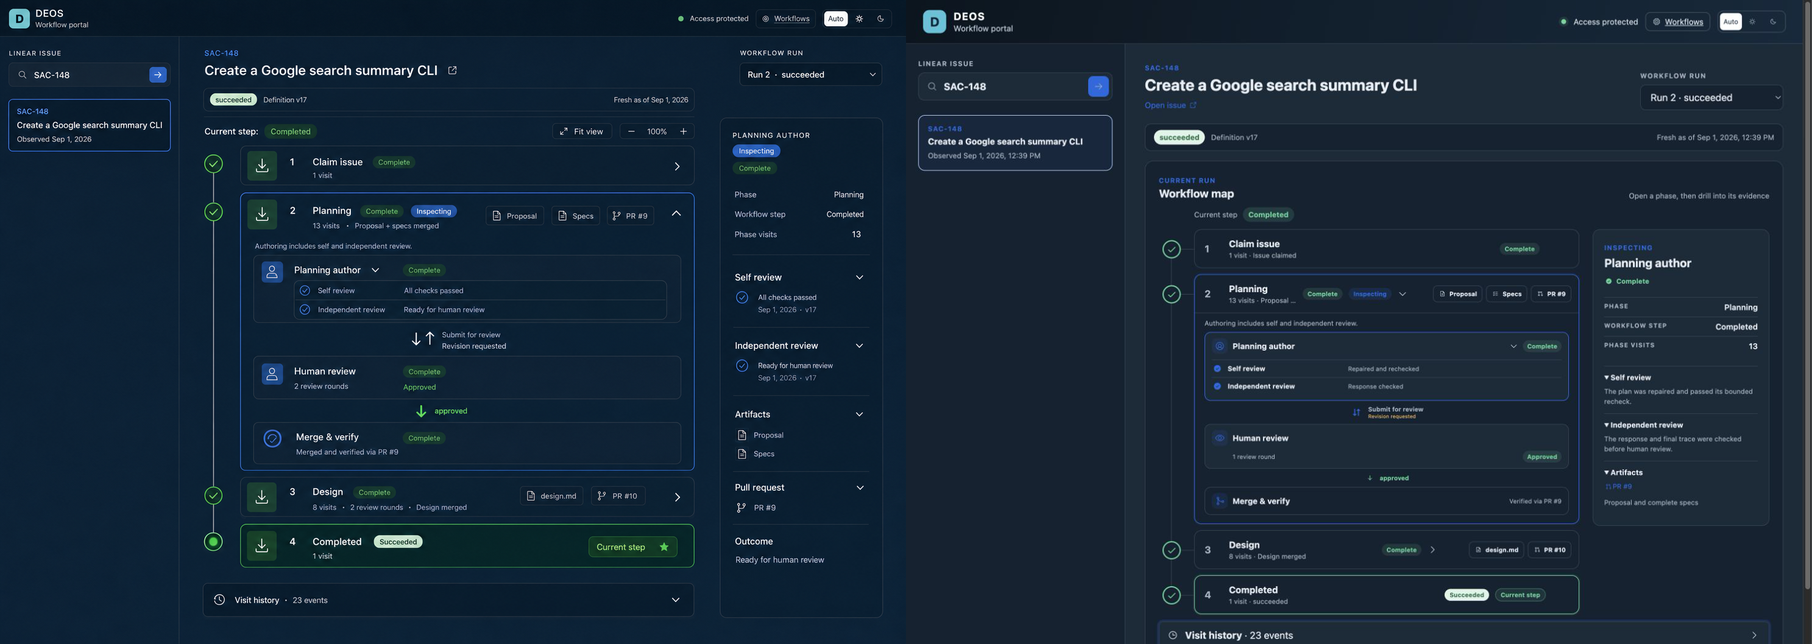
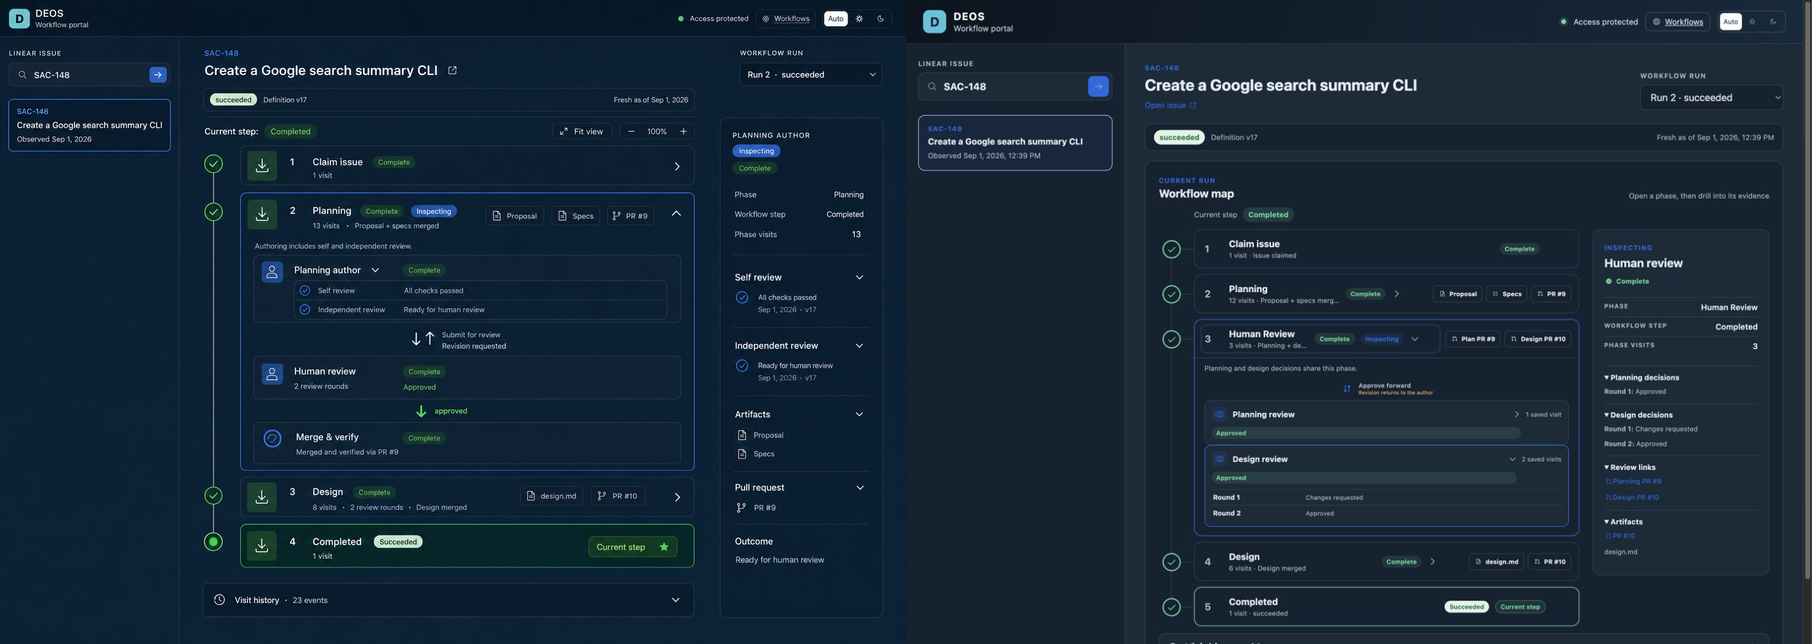
fix: preserve review phase replay evidence

Changed region(s): [[0.6187, 0.4367, 0.959, 1.0], [0.8662, 0.4055, 0.928, 0.4367], [0.928, 0.4679, 0.959, 0.4991]]

diff --git a/portal/src/main.tsx b/portal/src/main.tsx
@@ -255,15 +255,18 @@ function TraceabilityWorkflowMap({
   }, [projection.run.id]);
 
   const openPhase = (phaseId: WorkflowPhaseId, visits: Visit[]) => {
-    const expandable = phaseId === "planning" || phaseId === "design";
+    const expandable = phaseId === "planning" || phaseId === "approval" || phaseId === "design";
     const next = expandable && expandedPhase !== phaseId ? phaseId : null;
-    setExpandedPhase(next);
-    setExpandedSubstep(next === "planning" ? "planning_author" : null);
     const latest = visits.at(-1);
+    setExpandedPhase(next);
+    setExpandedSubstep(next === "planning" ? "planning_author"
+      : next === "approval" ? (latest?.gate?.gate_kind === "design" ? "design_review" : "planning_review")
+        : next === "design" ? "design_author" : null);
     if (latest !== undefined) onSelectVisit(latest.sequence);
   };
 
   const planningVisits = phases.find((phase) => phase.id === "planning")?.visits as Visit[] | undefined ?? [];
+  const approvalVisits = phases.find((phase) => phase.id === "approval")?.visits as Visit[] | undefined ?? [];
   const designVisits = phases.find((phase) => phase.id === "design")?.visits as Visit[] | undefined ?? [];
   const selfReviewVisits = planningVisits.filter((visit) => [
     "self_discovery", "planning_self_repair", "self_recheck_before_publish", "self_recheck_after_publish",
@@ -274,13 +277,16 @@ function TraceabilityWorkflowMap({
   const planningAuthorVisit = latestVisitFor(planningVisits, (visit) => [
     "planning_author", "planning_self_repair", "planning_independent_response", "final_trace",
   ].includes(visit.nodeId));
-  const planningReviewVisit = latestVisitFor(planningVisits, (visit) => visit.nodeId === "planning_review");
+  const planningReviewVisit = latestVisitFor(approvalVisits, (visit) => visit.nodeId === "planning_review");
   const planningMergeVisit = latestVisitFor(planningVisits, (visit) => ["verify_planning_merge", "merge_planning_pr"].includes(visit.nodeId));
   const designAuthorVisit = latestVisitFor(designVisits, (visit) => ["design_revision_author", "design_author"].includes(visit.nodeId));
-  const designReviewVisit = latestVisitFor(designVisits, (visit) => visit.nodeId === "design_review");
+  const designReviewVisit = latestVisitFor(approvalVisits, (visit) => visit.nodeId === "design_review");
   const designMergeVisit = latestVisitFor(designVisits, (visit) => visit.nodeId === "merge_design_pr");
   const planningGates = projection.gateVisits.filter((gate) => gate.gateKind === "plan");
   const designGates = projection.gateVisits.filter((gate) => gate.gateKind === "design");
+  const approvalLinks = [...new Map(
+    approvalVisits.flatMap((visit) => visit.links).map((link) => [link.url, link]),
+  ).values()];
   const planningProduct = projection.workProducts.planning;
   const designProduct = projection.workProducts.design;
 
@@ -289,10 +295,20 @@ function TraceabilityWorkflowMap({
     if (visit !== null) onSelectVisit(visit.sequence);
   };
 
+  const inspectVisit = (visit: Visit) => {
+    onSelectVisit(visit.sequence);
+    const phaseId = phaseForVisit(visit);
+    setExpandedPhase(phaseId);
+    setExpandedSubstep(phaseId === "approval"
+      ? (visit.gate?.gate_kind === "design" ? "design_review" : "planning_review")
+      : null);
+  };
+
   const phaseOutcome = (phaseId: WorkflowPhaseId): string => {
     if (phaseId === "claim") return "Issue claimed";
     if (phaseId === "planning") return planningProduct?.verified ? "Proposal + specs merged" : "Proposal + specs";
-    if (phaseId === "design") return designProduct?.status === "Merged" ? "Design merged" : "Design review";
+    if (phaseId === "approval") return "Planning + design decisions";
+    if (phaseId === "design") return designProduct?.status === "Merged" ? "Design merged" : "Design work";
     if (phaseId === "complete") return human(projection.run.status);
     return "Workflow stopped";
   };
@@ -312,13 +328,7 @@ function TraceabilityWorkflowMap({
         <span><CheckCircle weight="fill" /><strong>Independent review</strong><small>{independentVisits.length > 1 ? "Response checked" : "Ready for human review"}</small></span>
       </span>}
     </button>
-    <div className="shared-loop" aria-label="Submit for review or return for revision"><ArrowsDownUp weight="bold" /><span><strong>Submit for review</strong><small>Revision requested</small></span></div>
-    <button type="button" className={`phase-substep compact ${expandedSubstep === "planning_review" ? "selected" : ""}`} onClick={() => selectSubstep("planning_review", planningReviewVisit)}>
-      <span className="substep-heading"><span className="substep-icon"><Eye /></span><strong>Human review</strong></span>
-      <span className="substep-meta">{planningGates.length || 1} review round{planningGates.length === 1 ? "" : "s"}</span>
-      <span className="substep-status">{gateOutcomeLabel(planningGates.at(-1)?.decision ?? null)}</span>
-    </button>
-    <div className="approved-edge"><ArrowRight weight="bold" /><span>approved</span></div>
+    <div className="approved-edge"><ArrowRight weight="bold" /><span>after Human Review</span></div>
     <button type="button" className={`phase-substep terminal ${expandedSubstep === "planning_merge" ? "selected" : ""}`} onClick={() => selectSubstep("planning_merge", planningMergeVisit)}>
       <span className="substep-heading"><span className="substep-icon"><GitMerge /></span><strong>Merge &amp; verify</strong></span>
       <span className="substep-meta">{planningProduct?.verified ? `Verified via PR #${planningProduct.number}` : "Waiting for checked merge"}</span>
@@ -331,16 +341,27 @@ function TraceabilityWorkflowMap({
       <span className="substep-heading"><span className="substep-icon"><UserCircle /></span><strong>Design author</strong></span>
       <span className="substep-status">Complete</span>
     </button>
-    <div className="shared-loop" aria-label="Submit for review or return for revision"><ArrowsDownUp weight="bold" /><span><strong>Submit for review</strong><small>Revision requested</small></span></div>
-    <button type="button" className={`phase-substep ${expandedSubstep === "design_review" ? "selected" : ""}`} aria-expanded={expandedSubstep === "design_review"} onClick={() => selectSubstep("design_review", designReviewVisit)}>
-      <span className="substep-heading"><span className="substep-icon"><Eye /></span><strong>Human review</strong>{expandedSubstep === "design_review" ? <CaretDown /> : <CaretRight />}</span>
-      <span className="substep-meta">{designGates.length} review rounds</span>
-      {expandedSubstep === "design_review" && <span className="author-review-details gate-rounds">{designGates.map((gate) => <span key={gate.visitSequence}><strong>Round {gate.round}</strong><small>{gateOutcomeLabel(gate.decision)}</small></span>)}</span>}
-    </button>
-    <div className="approved-edge"><ArrowRight weight="bold" /><span>approved</span></div>
+    <div className="approved-edge"><ArrowRight weight="bold" /><span>after Human Review</span></div>
     <button type="button" className={`phase-substep terminal ${expandedSubstep === "design_merge" ? "selected" : ""}`} onClick={() => selectSubstep("design_merge", designMergeVisit)}>
       <span className="substep-heading"><span className="substep-icon"><GitMerge /></span><strong>Merge &amp; verify</strong></span>
       <span className="substep-meta">{designProduct?.status === "Merged" ? `Merged via PR #${designProduct.number}` : "Waiting for merge"}</span>
+    </button>
+  </div>;
+
+  const renderApproval = () => <div className="phase-drill" aria-label="Human Review details">
+    <p className="phase-note">Planning and design decisions share this phase.</p>
+    <div className="shared-loop" aria-label="Approve forward or return to the author"><ArrowsDownUp weight="bold" /><span><strong>Approve forward</strong><small>Revision returns to the author</small></span></div>
+    <button type="button" className={`phase-substep ${expandedSubstep === "planning_review" ? "selected" : ""} ${planningGates.some((gate) => gate.active) ? "active" : ""}`} aria-expanded={expandedSubstep === "planning_review"} onClick={() => selectSubstep("planning_review", planningReviewVisit)}>
+      <span className="substep-heading"><span className="substep-icon"><Eye /></span><strong>Planning review</strong>{expandedSubstep === "planning_review" ? <CaretDown /> : <CaretRight />}</span>
+      <span className="substep-meta">{planningGates.length} saved visit{planningGates.length === 1 ? "" : "s"}</span>
+      <span className="substep-status">{gateOutcomeLabel(planningGates.at(-1)?.decision ?? null)}</span>
+      {expandedSubstep === "planning_review" && <span className="author-review-details gate-rounds">{planningGates.map((gate) => <span key={gate.visitSequence}><strong>Round {gate.round}</strong><small>{gateOutcomeLabel(gate.decision)}</small></span>)}</span>}
+    </button>
+    <button type="button" className={`phase-substep ${expandedSubstep === "design_review" ? "selected" : ""} ${designGates.some((gate) => gate.active) ? "active" : ""}`} aria-expanded={expandedSubstep === "design_review"} onClick={() => selectSubstep("design_review", designReviewVisit)}>
+      <span className="substep-heading"><span className="substep-icon"><Eye /></span><strong>Design review</strong>{expandedSubstep === "design_review" ? <CaretDown /> : <CaretRight />}</span>
+      <span className="substep-meta">{designGates.length} saved visit{designGates.length === 1 ? "" : "s"}</span>
+      <span className="substep-status">{gateOutcomeLabel(designGates.at(-1)?.decision ?? null)}</span>
+      {expandedSubstep === "design_review" && <span className="author-review-details gate-rounds">{designGates.map((gate) => <span key={gate.visitSequence}><strong>Round {gate.round}</strong><small>{gateOutcomeLabel(gate.decision)}</small></span>)}</span>}
     </button>
   </div>;
 
@@ -357,7 +378,9 @@ function TraceabilityWorkflowMap({
           : expandedSubstep === "design_review" ? "Human review"
             : expandedSubstep === "design_merge" ? "Merge & verify"
               : inspectedPhase?.label ?? "Workflow";
-  const inspectorProduct = inspectedPhase?.id === "planning" ? planningProduct : inspectedPhase?.id === "design" ? designProduct : null;
+  const inspectorProduct = expandedSubstep === "planning_review" ? planningProduct
+    : expandedSubstep === "design_review" ? designProduct
+      : inspectedPhase?.id === "planning" ? planningProduct : inspectedPhase?.id === "design" ? designProduct : null;
   const inspectorAttempts = detail?.attempts.filter((attempt) => attempt.transcriptAvailable) ?? [];
 
   return <section className="workflow-panel phase-workflow-panel" aria-labelledby="workflow-title">
@@ -383,15 +406,20 @@ function TraceabilityWorkflowMap({
                 <span className={`phase-status ${successfulTerminal ? "succeeded" : ""}`}>{status}</span>
                 {inspecting && <span className="inspecting-pill">Inspecting</span>}
                 {current && <span className="current-pill">Current step</span>}
-                {(phase.id === "planning" || phase.id === "design") && (expanded ? <CaretDown /> : <CaretRight />)}
+                {(phase.id === "planning" || phase.id === "approval" || phase.id === "design") && (expanded ? <CaretDown /> : <CaretRight />)}
               </button>
               {product && <div className="phase-artifacts">
                 <a href={product.url} target="_blank" rel="noreferrer"><FileText />{phase.id === "planning" ? "Proposal" : "design.md"}</a>
                 {phase.id === "planning" && <a href={product.url} target="_blank" rel="noreferrer"><ListChecks />Specs</a>}
                 <a href={product.url} target="_blank" rel="noreferrer"><GitPullRequest />PR #{product.number}</a>
               </div>}
+              {phase.id === "approval" && <div className="phase-artifacts">
+                {planningProduct && <a href={planningProduct.url} target="_blank" rel="noreferrer"><GitPullRequest />Plan PR #{planningProduct.number}</a>}
+                {designProduct && <a href={designProduct.url} target="_blank" rel="noreferrer"><GitPullRequest />Design PR #{designProduct.number}</a>}
+              </div>}
             </div>
             {expanded && phase.id === "planning" && renderPlanning()}
+            {expanded && phase.id === "approval" && renderApproval()}
             {expanded && phase.id === "design" && renderDesign()}
           </article>;
         })}
@@ -411,14 +439,19 @@ function TraceabilityWorkflowMap({
           <details open><summary>Self review</summary><p>{selfReviewVisits.length > 1 ? "The plan was repaired and passed its bounded recheck." : "All checks passed."}</p></details>
           <details open><summary>Independent review</summary><p>{independentVisits.length > 1 ? "The response and final trace were checked before human review." : "Ready for human review."}</p></details>
         </>}
+        {inspectedPhase?.id === "approval" && <>
+          <details open><summary>Planning decisions</summary>{planningGates.map((gate) => <p key={gate.visitSequence}><strong>Round {gate.round}:</strong> {gateOutcomeLabel(gate.decision)}</p>)}</details>
+          <details open><summary>Design decisions</summary>{designGates.map((gate) => <p key={gate.visitSequence}><strong>Round {gate.round}:</strong> {gateOutcomeLabel(gate.decision)}</p>)}</details>
+          {approvalLinks.length > 0 && <details open><summary>Review links</summary>{approvalLinks.map((link) => <p key={link.url} className={detail?.links.some((selected) => selected.url === link.url) ? "selected-evidence" : ""}><a href={link.url} target="_blank" rel="noreferrer"><GitPullRequest /> {link.label}</a></p>)}</details>}
+        </>}
         {inspectedPhase?.id === "design" && <details open><summary>Review rounds</summary>{designGates.map((gate) => <p key={gate.visitSequence}><strong>Round {gate.round}:</strong> {gateOutcomeLabel(gate.decision)}</p>)}</details>}
-        {inspectorProduct && <details open><summary>Artifacts</summary><p><a href={inspectorProduct.url} target="_blank" rel="noreferrer"><GitPullRequest /> PR #{inspectorProduct.number}</a></p><p>{inspectedPhase?.id === "planning" ? "Proposal and complete specs" : "design.md"}</p></details>}
+        {inspectorProduct && <details open><summary>Artifacts</summary><p><a href={inspectorProduct.url} target="_blank" rel="noreferrer"><GitPullRequest /> PR #{inspectorProduct.number}</a></p><p>{inspectorProduct === planningProduct ? "Proposal and complete specs" : "design.md"}</p></details>}
         {inspectorAttempts.length > 0 && <details><summary>Transcript</summary>{inspectorAttempts.map((attempt) => <button className="inspector-action" type="button" key={attempt.id} onClick={() => onOpenTranscript(attempt.id)}>View transcript</button>)}</details>}
       </aside>
     </div>
     <div className="phase-history">
       <button type="button" aria-expanded={historyOpen} onClick={() => setHistoryOpen((open) => !open)}><Clock /><span><strong>Visit history</strong> · {projection.history.length} events</span>{historyOpen ? <CaretDown /> : <CaretRight />}</button>
-      {historyOpen && <ol>{[...projection.history].reverse().map((visit) => <li key={visit.sequence}><button type="button" className={selectedVisit === visit.sequence ? "selected" : ""} onClick={() => { onSelectVisit(visit.sequence); setExpandedPhase(phaseForVisit(visit)); }}><span>{visit.sequence}</span><strong>{human(visit.label)}</strong><small>{formatTime(visit.enteredAt)}</small></button></li>)}</ol>}
+      {historyOpen && <ol>{[...projection.history].reverse().map((visit) => <li key={visit.sequence}><button type="button" className={selectedVisit === visit.sequence ? "selected" : ""} onClick={() => inspectVisit(visit)}><span>{visit.sequence}</span><strong>{human(visit.label)}</strong><small>{formatTime(visit.enteredAt)}</small></button></li>)}</ol>}
     </div>
   </section>;
 }

diff --git a/src/workflow-services.ts b/src/workflow-services.ts
@@ -61,6 +61,8 @@ import {
   buildDesignCandidate,
   persistDesignCandidateEvidence,
   DesignCandidateRejectedError,
+  isStoredDesignCandidateReplay,
+  type StoredDesignCandidateIdentity,
 } from "./design-candidate.ts";
 
 const durationMs = (value: string): number => {
@@ -249,14 +251,22 @@ export class CloudflareWorkflowServices implements WorkflowNodeServices {
           content,
           reviewReplies,
         }) => {
-          const latest = await env.DB.prepare(
-            "SELECT COALESCE(MAX(round), 0) AS round FROM design_candidates WHERE run_id = ?",
-          ).bind(run.run_id).first<{ round: number }>();
-          const round = (latest?.round ?? 0) + 1;
+          const candidateId = `design:${attempt.attempt_id}`;
+          const existing = await env.DB.prepare(
+            `SELECT candidate_id, run_id, round, source_attempt_id, base_commit, change_id,
+                    design_digest, candidate_digest, state, created_at, accepted_at
+             FROM design_candidates WHERE candidate_id = ?`,
+          ).bind(candidateId).first<StoredDesignCandidateIdentity>();
+          const latest = existing === null
+            ? await env.DB.prepare(
+              "SELECT COALESCE(MAX(round), 0) AS round FROM design_candidates WHERE run_id = ?",
+            ).bind(run.run_id).first<{ round: number }>()
+            : null;
+          const round = existing?.round ?? (latest?.round ?? 0) + 1;
           let built;
           try {
             built = await buildDesignCandidate({
-              candidateId: `design:${attempt.attempt_id}`,
+              candidateId,
               runId: run.run_id,
               round,
               sourceAttemptId: attempt.attempt_id,
@@ -266,12 +276,16 @@ export class CloudflareWorkflowServices implements WorkflowNodeServices {
               content,
               reviewReplies,
               strictOpenSpecCheck: async () => {},
-              checkedAt: new Date().toISOString(),
+              checkedAt: existing?.accepted_at ?? existing?.created_at ?? new Date().toISOString(),
             });
           } catch (error) {
             throw new DesignCandidateRejectedError(
               error instanceof Error ? error.message : "trusted design candidate was rejected",
             );
+          }
+          if (existing !== null) {
+            if (isStoredDesignCandidateReplay(existing, built.candidate)) return;
+            throw new DesignCandidateRejectedError("design candidate attempt identity mismatch");
           }
           const duplicate = await env.DB.prepare(
             `SELECT candidate_id FROM design_candidates

diff --git a/portal/src/workflow-phases.ts b/portal/src/workflow-phases.ts
@@ -1,4 +1,4 @@
-export type WorkflowPhaseId = "claim" | "planning" | "design" | "complete" | "stopped";
+export type WorkflowPhaseId = "claim" | "planning" | "approval" | "design" | "complete" | "stopped";
 
 export interface PhaseVisitLike {
   sequence: number;
@@ -17,6 +17,7 @@ export interface WorkflowPhase {
 const PHASE_LABELS: Record<WorkflowPhaseId, string> = {
   claim: "Claim issue",
   planning: "Planning",
+  approval: "Human Review",
   design: "Design",
   complete: "Completed",
   stopped: "Stopped",
@@ -24,8 +25,7 @@ const PHASE_LABELS: Record<WorkflowPhaseId, string> = {
 
 export const phaseForVisit = (visit: Pick<PhaseVisitLike, "nodeId" | "stageId" | "gate">): WorkflowPhaseId | null => {
   if (visit.stageId === "claim") return "claim";
-  if (visit.nodeId === "planning_review" || visit.gate?.gate_kind === "plan") return "planning";
-  if (visit.nodeId === "design_review" || visit.gate?.gate_kind === "design") return "design";
+  if (["planning_review", "design_review"].includes(visit.nodeId) || visit.gate !== null) return "approval";
   if (["planning", "independent_review", "plan_merge"].includes(visit.stageId)) return "planning";
   if (["design", "design_merge"].includes(visit.stageId)) return "design";
   if (visit.stageId === "complete") return "complete";
@@ -35,7 +35,7 @@ export const phaseForVisit = (visit: Pick<PhaseVisitLike, "nodeId" | "stageId" |
 
 export const workflowPhases = (visits: PhaseVisitLike[]): WorkflowPhase[] => {
   const visibleVisits = visits.filter((visit) => visit.recovered !== true);
-  const order: WorkflowPhaseId[] = ["claim", "planning", "design", "complete"];
+  const order: WorkflowPhaseId[] = ["claim", "planning", "approval", "design", "complete"];
   if (visibleVisits.some((visit) => phaseForVisit(visit) === "stopped")) order.push("stopped");
   return order.map((id) => ({
     id,

diff --git a/portal/tests/workflow-phases.test.ts b/portal/tests/workflow-phases.test.ts
@@ -35,16 +35,17 @@ test("version 17 folds granular nodes into progressive planning and design phase
   ];
   assert.deepEqual(workflowPhases(visits).map((phase) => [phase.id, phase.visits.length]), [
     ["claim", 1],
-    ["planning", 4],
-    ["design", 3],
+    ["planning", 3],
+    ["approval", 2],
+    ["design", 2],
     ["complete", 1],
   ]);
   assert.equal(latestPhaseId(visits), "complete");
 });
 
 test("gate kind disambiguates the shared Human Review presentation stage", () => {
-  assert.equal(phaseForVisit(visit(12, "planning_review", "review", "plan")), "planning");
-  assert.equal(phaseForVisit(visit(17, "design_review", "review", "design")), "design");
+  assert.equal(phaseForVisit(visit(12, "planning_review", "review", "plan")), "approval");
+  assert.equal(phaseForVisit(visit(17, "design_review", "review", "design")), "approval");
 });
 
 test("the grouped view is selected only for a design-stage definition", () => {
@@ -71,7 +72,7 @@ test("a recovered terminal visit does not add a stopped phase or replace the cur
     visit(3, "planning_author", "planning"),
   ];
   assert.deepEqual(workflowPhases(visits).map((phase) => phase.id), [
-    "claim", "planning", "design", "complete",
+    "claim", "planning", "approval", "design", "complete",
   ]);
   assert.equal(latestPhaseId(visits), "planning");
 });

diff --git a/src/design-candidate.ts b/src/design-candidate.ts
@@ -47,6 +47,29 @@ export interface DesignCandidateEvidence {
   validationSha256: string;
 }
 
+export interface StoredDesignCandidateIdentity {
+  candidate_id: string;
+  run_id: string;
+  round: number;
+  source_attempt_id: string;
+  base_commit: string;
+  change_id: string;
+  design_digest: string;
+  candidate_digest: string;
+  state: string;
+  created_at: string;
+  accepted_at: string | null;
+}
+
+export const isStoredDesignCandidateReplay = (
+  stored: StoredDesignCandidateIdentity,
+  candidate: DesignCandidate,
+): boolean => stored.candidate_id === candidate.candidateId && stored.run_id === candidate.runId &&
+  stored.round === candidate.round && stored.source_attempt_id === candidate.sourceAttemptId &&
+  stored.base_commit === candidate.baseCommit && stored.change_id === candidate.change &&
+  stored.design_digest === candidate.designDigest && stored.candidate_digest === candidate.candidateDigest &&
+  stored.state === "validated" && stored.accepted_at !== null;
+
 const requiredSections = ["component diagram", "event flow", "minimal data model", "failure modes"];
 
 const checkedReplies = (value: readonly DesignReviewReply[]): readonly DesignReviewReply[] => {
@@ -176,4 +199,3 @@ export const persistDesignCandidateEvidence = async (
     validationSha256,
   });
 };
-

diff --git a/tests/design-candidate.test.ts b/tests/design-candidate.test.ts
@@ -4,6 +4,7 @@ import test from "node:test";
 import {
   buildDesignCandidate,
   DesignCandidateRejectedError,
+  isStoredDesignCandidateReplay,
 } from "../src/design-candidate.ts";
 
 const content = `## Context
@@ -62,3 +63,21 @@ test("design candidate rejects extra paths, missing sections, whitespace, and un
   await assert.rejects(build({ reviewReplies: [{ commentId: 42, body: "<!-- hidden -->" }] }), /review reply/);
 });
 
+test("a saved source attempt reuses its round and exact candidate identity", async () => {
+  const built = await build({ round: 2, checkedAt: "2026-09-01T10:05:00.000Z" });
+  const stored = {
+    candidate_id: built.candidate.candidateId,
+    run_id: built.candidate.runId,
+    round: 2,
+    source_attempt_id: built.candidate.sourceAttemptId,
+    base_commit: built.candidate.baseCommit,
+    change_id: built.candidate.change,
+    design_digest: built.candidate.designDigest,
+    candidate_digest: built.candidate.candidateDigest,
+    state: "validated",
+    created_at: built.validation.checkedAt,
+    accepted_at: built.validation.checkedAt,
+  };
+  assert.equal(isStoredDesignCandidateReplay(stored, built.candidate), true);
+  assert.equal(isStoredDesignCandidateReplay({ ...stored, round: 3 }, built.candidate), false);
+});

diff --git a/portal/src/styles.css b/portal/src/styles.css
@@ -63,3 +63,5 @@ button { color:inherit; }
 .phase-substep{gap:8px;padding:9px 11px}.phase-substep.compact .substep-meta{grid-column:1;grid-row:2;padding-left:34px}.phase-substep.compact .substep-status{grid-column:2;grid-row:2;justify-self:end}.substep-icon{width:26px;height:26px}.substep-icon svg{width:16px}.author-review-details{margin-top:1px}.author-review-details>span{padding:6px 2px}.author-review-details svg{width:14px}.shared-loop{min-height:38px}.shared-loop svg{width:22px}.shared-loop small{margin-top:1px}.approved-edge{min-height:30px}.approved-edge svg{width:18px}
 .phase-spine-marker.active{border-color:var(--blue);color:var(--blue)}
 .inspector-status.active{color:var(--blue)}
+.phase-substep.active{border-color:var(--blue)}
+.phase-inspector .selected-evidence a{color:var(--blue)}

diff --git a/design-qa.md b/design-qa.md
@@ -10,10 +10,10 @@
 ## Review
 
 - Visual hierarchy: passed. The current workflow step remains visible while a different phase is marked as inspected.
-- Progressive disclosure: passed. Planning and Design open independently. Planning author contains the self-review and independent-review detail rows. Visit history stays collapsed until requested.
-- Review loop: passed. One shared bidirectional connector communicates submit and revision flow. Approval exits to Merge & verify.
+- Progressive disclosure: passed. Planning, Human Review, and Design open independently. Planning author contains the self-review and independent-review detail rows. Visit history stays collapsed until requested.
+- Review loop: passed. One shared Human Review phase keeps the planning decision and both design decisions. One bidirectional connector communicates approval and return-to-author flow. The selected gate controls which work product appears in the inspector.
 - Scope: passed. Publish visits remain in the underlying chronology but are not rendered as workflow nodes. No future implementation or deployment phases are invented.
-- Evidence access: passed. Phase artifacts and pull requests remain available from the summary and inspector.
+- Evidence access: passed. The shared Human Review summary keeps both pull requests. Planning and design decisions retain their saved rounds and outcomes. The selected review exposes its matching work product in the inspector.
 - Responsive behavior: passed at 1487x1058, 760x900, and 390x844. No horizontal document overflow was observed.
 - Interaction and accessibility: passed. Disclosure controls expose expanded state, keyboard focus is visible, and all browser console warnings and errors were empty.
 
